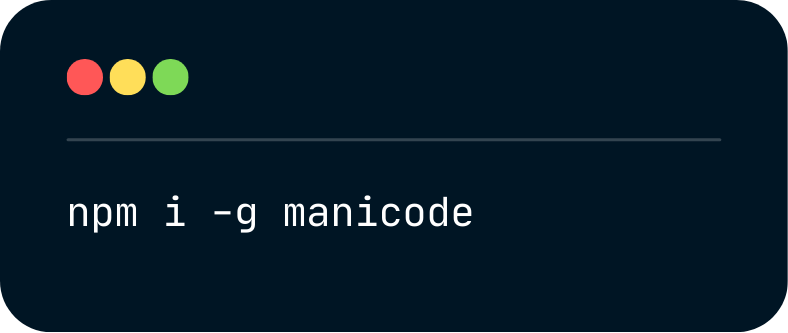
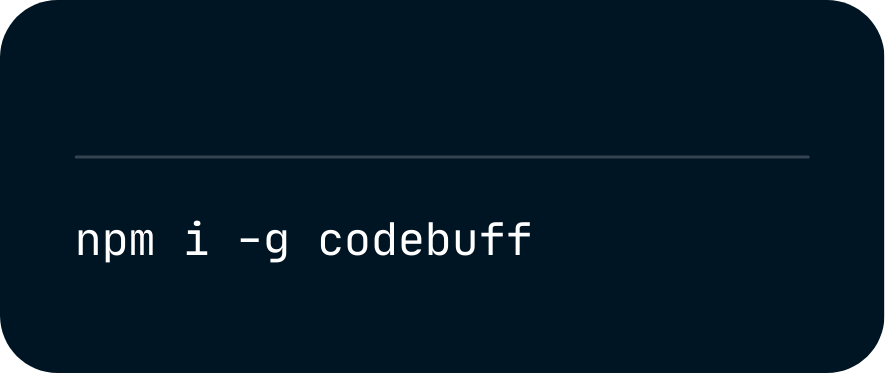
[feat] rename to Codebuff (#29)

diff --git a/web/src/app/page.tsx b/web/src/app/page.tsx
@@ -42,7 +42,7 @@ const Home = () => {
 
             <div className="inline-block">
               <div className="px-4 bg-gray-800 rounded-lg p-4 flex items-center gap-2">
-                <code className="text-white">npm install -g manicode</code>
+                <code className="text-white">npm install -g codebuff</code>
                 <Copy
                   className="h-4 w-4 text-gray-400 hover:text-white cursor-pointer"
                   onClick={copyToClipboard}
@@ -73,7 +73,7 @@ const Home = () => {
               <p>Backed by</p>
               <Link
                 target="_blank"
-                href="https://www.ycombinator.com/companies/manicode"
+                href="https://www.ycombinator.com/companies/codebuff"
               >
                 <img
                   src="/y-combinator.svg"
@@ -83,12 +83,12 @@ const Home = () => {
               </Link>
             </div>
             <a
-              href="https://www.producthunt.com/posts/manicode?embed=true&utm_source=badge-featured&utm_medium=badge&utm_souce=badge-manicode"
+              href="https://www.producthunt.com/posts/codebuff?embed=true&utm_source=badge-featured&utm_medium=badge&utm_souce=badge-codebuff"
               target="_blank"
             >
               <img
                 src={`https://api.producthunt.com/widgets/embed-image/v1/featured.svg?post_id=501055&theme=${theme}`}
-                alt="Manicode - Better&#0032;code&#0032;generation&#0032;than&#0032;Cursor&#0044;&#0032;from&#0032;your&#0032;CLI | Product Hunt"
+                alt="Codebuff - Better&#0032;code&#0032;generation&#0032;than&#0032;Cursor&#0044;&#0032;from&#0032;your&#0032;CLI | Product Hunt"
                 width="250"
                 height="54"
               />
@@ -135,7 +135,7 @@ const Home = () => {
           <div className="text-center">
             <Button className="bg-blue-900 hover:bg-blue-700 text-white transition-colors">
               <Link
-                href="https://www.npmjs.com/package/manicode"
+                href="https://www.npmjs.com/package/codebuff"
                 target="_blank"
               >
                 Get Started Coding with AI

diff --git a/web/src/app/referrals/[code]/page.tsx b/web/src/app/referrals/[code]/page.tsx
@@ -101,11 +101,11 @@ export default function RedeemPage({ params }: { params: { code: string } }) {
           </p>
           <ol className="list-decimal list-inside space-y-6">
             <li>
-              Install Manicode globally:
-              <InputWithCopyButton text={'npm i -g manicode'} />
+              Install Codebuff globally:
+              <InputWithCopyButton text={'npm i -g codebuff'} />
             </li>
             <li>
-              Run Manicode in Terminal
+              Run Codebuff in Terminal
               <InputWithCopyButton text={'manicode'} />
             </li>
             {!data?.status.reason && (

diff --git a/web/src/components/navbar/navbar.tsx b/web/src/components/navbar/navbar.tsx
@@ -22,12 +22,12 @@ export const Navbar = async () => {
       <Link href="/" className="flex items-center space-x-2">
         <Image
           src="/favicon/favicon-16x16.ico"
-          alt="Manicode Logo"
+          alt="Codebuff Logo"
           width={32}
           height={32}
           className="rounded-sm"
         />
-        <span className="font-mono text-2xl font-bold">Manicode</span>
+        <span className="font-mono text-2xl font-bold">Codebuff</span>
       </Link>
       <nav className="hidden md:flex space-x-4">
         <Link href="/pricing" className="hover:text-blue-400 transition-colors">

diff --git a/web/src/app/api/referrals/helpers.ts b/web/src/app/api/referrals/helpers.ts
@@ -38,7 +38,7 @@ export async function redeemReferralCode(referralCode: string, userId: string) {
       return NextResponse.json(
         {
           error:
-            "Uh-oh, this referral code doesn't exist! Try again or reach out to support@manicode.ai if the problem persists.",
+            "This referral code doesn't exist! Try again or reach out to support@manicode.ai if the problem persists.",
         },
         {
           status: 404,

diff --git a/web/src/lib/constant.ts b/web/src/lib/constant.ts
@@ -1,9 +1,9 @@
 import { env } from '@/env.mjs'
 
 export const siteConfig = {
-  title: 'Manicode',
+  title: 'Codebuff',
   description:
-    'Manicode is a tool for editing codebases via natural language instruction to Mani, an expert AI programming assistant.',
+    'Codebuff is a tool for editing codebases via natural language instruction to Mani, an expert AI programming assistant.',
   keywords: () => [
     'Manicode',
     'Coding Assistant',

diff --git a/web/src/components/footer.tsx b/web/src/components/footer.tsx
@@ -18,7 +18,7 @@ export const Footer = () => {
                 height={32}
                 className="rounded-sm"
               />
-              <span className="font-bold text-xl">{siteConfig.title}</span>
+              <span className="font-bold text-xl">Codebuff</span>
             </Link>
           </div>
 

diff --git a/web/knowledge.md b/web/knowledge.md
@@ -1,8 +1,8 @@
-# Manicode Web Application Knowledge
+# Codebuff Web Application Knowledge
 
 ## Authentication and Login System
 
-The authentication system in Manicode's web application plays a crucial role in integrating with the npm app (CLI) to provide a seamless login experience. Here's what the web app needs to focus on:
+The authentication system in Codebuff's web application plays a crucial role in integrating with the npm app (CLI) to provide a seamless login experience. Here's what the web app needs to focus on:
 
 ### Web App's Role in Authentication
 
@@ -43,7 +43,7 @@ The authentication system in Manicode's web application plays a crucial role in 
 ## UI Patterns
 
 ### Logo Usage
-- Include the Manicode logo alongside the company name in key UI components
+- Include the Codebuff logo alongside the company name in key UI components
 - Logo placement:
   - Navbar: Primary placement
   - Footer: Left side of sitemap
@@ -195,13 +195,13 @@ The referral system is a key feature of the Manicode web application. It allows 
 To streamline the referral process and integrate it with the CLI tool:
 
 1. The web interface no longer accepts referral code inputs.
-2. Users are directed to use the Manicode CLI app for submitting referral codes.
+2. Users are directed to use the Codebuff CLI app for submitting referral codes.
 3. The referrals page should include instructions for installing the CLI tool and using referral codes:
-   - Install command: `npm i -g manicode`
+   - Install command: `npm i -g codebuff`
    - Usage: Users should paste their referral code in the CLI after installation.
 4. Format CLI commands in a code-like pattern on the web interface for clarity.
 
-This change ensures a consistent user experience across the Manicode ecosystem and encourages CLI adoption.
+This change ensures a consistent user experience across the Codebuff ecosystem and encourages CLI adoption.
 
 ## Environment Configuration
 

diff --git a/web/README.md b/web/README.md
@@ -1,6 +1,6 @@
-# Manicode Web App
+# Codebuff Web App
 
-Mainly used for logging in and managing Manicode API quotas.
+Mainly used for logging in and managing Codebuff API quotas.
 
 ## 🎉 Features
 
